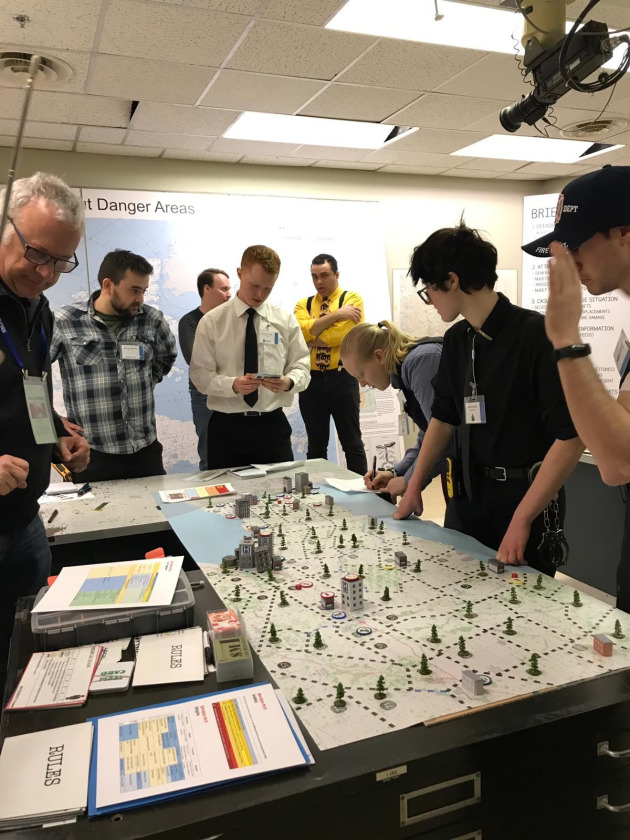
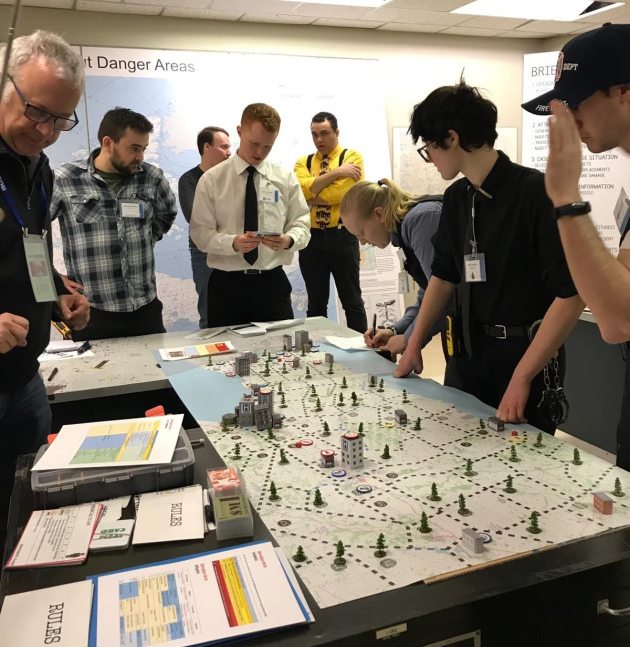
fix issue with mailing list signup form on games page, minor head update, photo crop

diff --git a/games.html b/games.html
@@ -9,8 +9,8 @@
 
     <link rel="stylesheet" href="css/normalize.css">
     <link rel="stylesheet" href="css/omg.css">
-    <link href="//cdn-images.mailchimp.com/embedcode/classic-10_7_dtp.css" rel="stylesheet" type="text/css">
     <link rel="icon" type="image/png" href="/img/favicon.ico">
+    <link href="https://cdn-images.mailchimp.com/embedcode/classic-10_7_dtp.css" rel="stylesheet" type="text/css">
     <link href="https://fonts.googleapis.com/css2?family=Carter+One&display=swap" rel="stylesheet"> 
     <script src="https://kit.fontawesome.com/1fa4e40780.js" crossorigin="anonymous"></script>
     <meta name="description" content="The next upcoming game for Ottawa MegaGames, including social media links and where to purchase tickets. A teaser for any games coming in the future, and information about past games run by Ottawa MegaGames.">
@@ -64,70 +64,37 @@
         </section>
     </section>
     <!-- ======== New games update ENDS here ======== -->
-
-    <!-- ======== Teaser game update STARTS here ======== -->
-    <section class="teaser">
+    
+    <!-- ======== teaser/no upcoming game message update STARTS here ======== -->
+    <!-- these sections are together bc using the mailing list twice on a page causes problems -->
+    <section class="both">
         <div>
-            <h2>Coming Soon</h2>
-            <h3>Game Name</h3>
-        </div>
-
-        <section class="plain">
+            <h2 class="no-upcoming">Sign Up for Updates</h2>
             <div>
-                <p>Coming in the future! Here's a short description for a future game.</p>
-                <p>Sign up for our quarterly mailing list for updates about this and future games:</p>
-                <!-- Begin Mailchimp Signup Form -->
-                <div id="mc_embed_signup">
-                    <form action="https://facebook.us20.list-manage.com/subscribe/post?u=48b287ab8da2c5e0f68b8f40b&amp;id=bd1d73d4ed" method="post" id="mc-embedded-subscribe-form" name="mc-embedded-subscribe-form" class="validate" target="_blank" novalidate>
-                        <div id="mc_embed_signup_scroll">
-                            <div class="mc-field-group">
-                            <label for="mce-EMAIL">Email Address</label>
-                            <input type="email" value="" name="EMAIL" class="required email" id="mce-EMAIL">
-                        </div>  
-                        <div id="mce-responses" class="clear foot">
-                            <div class="response" id="mce-error-response" style="display:none"></div>
-                            <div class="response" id="mce-success-response" style="display:none"></div>
-                        </div>    <!-- real people should not fill this in and expect good things - do not remove this or risk form bot signups-->
-                        <div style="position: absolute; left: -5000px;" aria-hidden="true"><input type="text" name="b_48b287ab8da2c5e0f68b8f40b_bd1d73d4ed" tabindex="-1" value=""></div>
-                            <div class="optionalParent">
-                                <div class="clear foot">
-                                    <input type="submit" value="Subscribe" name="subscribe" id="mc-embedded-subscribe" class="button">
-                                </div>
-                            </div>
-                        </div>
-                    </form>
-                </div>
+                <p class="no-upcoming">Due to Covid, we currently have no upcoming events planned. Be sure to check our <a href="/partners.html">partners page</a> for groups running games online and across North America.</p>
+                <p class="no-upcoming">For updates about future games, sign up to for our mailing list! We'll only email you about once a season.</p>
             </div>
-            <script type='text/javascript' src='//s3.amazonaws.com/downloads.mailchimp.com/js/mc-validate.js'></script><script type='text/javascript'>(function($) {window.fnames = new Array(); window.ftypes = new Array();fnames[0]='EMAIL';ftypes[0]='email';fnames[1]='FNAME';ftypes[1]='text';fnames[2]='LNAME';ftypes[2]='text';}(jQuery));var $mcj = jQuery.noConflict(true);</script>
-            <!--End mc_embed_signup-->
-            <img src="/img/games/teaser-placeholder.jpg" alt="A photo of two men wearing hats and leis in with the colours of the Indian flag. There is a whitboard and an Indian flag in the background. One of the men is looking at a piece of paper, and the other is looking and pointing directly at the camera.">
-
-        </section>
-    </section>
-
-    <!-- ======== Teaser game update ENDS here ======== -->
-    
-    
-    <!-- ======== no upcoming game message update STARTS here ======== -->
-    <section class="no-upcoming">
-        <div>
-            <h2>Sign Up for Updates</h2>
-            <p>Due to Covid, we currently have no upcoming events planned. Be sure to check our <a href="/partners.html">partners page</a> for groups running games online and across North America.</p>
-            <p>For updates about future games, sign up to for our mailing list! We'll only email you about once a season.</p>
-
+            
+            <h2 class="teaser">Coming Soon</h2>
+            <h3 class="teaser">Game Name</h3>
+            <div>
+                <p class="teaser">Coming in the future! Here's a short description for a future game.</p>
+                <p class="teaser">Sign up for our quarterly mailing list for updates about this and future games:</p>
+            </div>
+            
             <div id="mc_embed_signup">
                 <form action="https://facebook.us20.list-manage.com/subscribe/post?u=48b287ab8da2c5e0f68b8f40b&amp;id=bd1d73d4ed" method="post" id="mc-embedded-subscribe-form" name="mc-embedded-subscribe-form" class="validate" target="_blank" novalidate>
                     <div id="mc_embed_signup_scroll">
                         <div class="mc-field-group">
-                        <label for="mce-EMAIL">Email Address</label>
-                        <input type="email" value="" name="EMAIL" class="required email" id="mce-EMAIL">
-                    </div>
-                    <div id="mce-responses" class="clear foot">
-                        <div class="response" id="mce-error-response" style="display:none"></div>
+                            <label for="mce-EMAIL">Email Address</label>
+                            <input type="email" value="" name="EMAIL" class="required email" id="mce-EMAIL">
+                        </div>
+                        <div id="mce-responses" class="clear foot">
+                            <div class="response" id="mce-error-response" style="display:none"></div>
                         <div class="response" id="mce-success-response" style="display:none"></div>
                     </div>    <!-- real people should not fill this in and expect good things - do not remove this or risk form bot signups-->
                     <div style="position: absolute; left: -5000px;" aria-hidden="true"><input type="text" name="b_48b287ab8da2c5e0f68b8f40b_bd1d73d4ed" tabindex="-1" value=""></div>
-                        <div class="optionalParent">
+                    <div class="optionalParent">
                             <div class="clear foot">
                                 <input type="submit" value="Subscribe" name="subscribe" id="mc-embedded-subscribe" class="button">
                             </div>
@@ -135,19 +102,18 @@
                     </div>
                 </form>
             </div>
-            <script type='text/javascript' src='//s3.amazonaws.com/downloads.mailchimp.com/js/mc-validate.js'></script><script type='text/javascript'>(function($) {window.fnames = new Array(); window.ftypes = new Array();fnames[0]='EMAIL';ftypes[0]='email';fnames[1]='FNAME';ftypes[1]='text';fnames[2]='LNAME';ftypes[2]='text';}(jQuery));var $mcj = jQuery.noConflict(true);</script>
+            <script type='text/javascript' src='https://s3.amazonaws.com/downloads.mailchimp.com/js/mc-validate.js'></script><script type='text/javascript'>(function($) {window.fnames = new Array(); window.ftypes = new Array();fnames[0]='EMAIL';ftypes[0]='email';fnames[1]='FNAME';ftypes[1]='text';fnames[2]='LNAME';ftypes[2]='text';}(jQuery));var $mcj = jQuery.noConflict(true);</script>
         </div>
-        <img src="/img/photos/no-upcoming.jpg" alt="A photo of 8 people standing around a map with game pieces on it. There are several pices of paper and cards sitting near the board, two of which read 'Rules'. There is a map of Canada on the back wall with the title 'Danger Areas'.">
-            
-        <script type='text/javascript' src='//s3.amazonaws.com/downloads.mailchimp.com/js/mc-validate.js'></script><script type='text/javascript'>(function($) {window.fnames = new Array(); window.ftypes = new Array();fnames[0]='EMAIL';ftypes[0]='email';fnames[1]='FNAME';ftypes[1]='text';fnames[2]='LNAME';ftypes[2]='text';}(jQuery));var $mcj = jQuery.noConflict(true);</script>
+        <img class="teaser" src="/img/games/teaser-placeholder.jpg" alt="A photo of two men wearing hats and leis in with the colours of the Indian flag. There is a whitboard and an Indian flag in the background. One of the men is looking at a piece of paper, and the other is looking and pointing directly at the camera.">
+        <img class="no-upcoming" src="/img/photos/no-upcoming.jpg" alt="A photo of 8 people standing around a map with game pieces on it. There are several pices of paper and cards sitting near the board, two of which read 'Rules'. There is a map of Canada on the back wall with the title 'Danger Areas'.">
     </section>
-    <!-- ======== no upcoming game message update ends here ======== -->
+    <!-- ======== teaser/no upcoming game message update ends here ======== -->
 
 
     <section>
 
         <h2>Past Games</h2>
-        <section  class="past">
+        <section class="past">
             <section>
                 <img src="/img/games/past games/zombies.jpg" alt="A distressed and grungey Canadian flag with a lunging zombie in front of it. Green text reading 'Apocalypse North' at the bottom.">
                 <h3>Apocalypse North</h3>

diff --git a/css/omg.css b/css/omg.css
@@ -85,6 +85,7 @@ a:hover {
 
 button, #mc_embed_signup #mc-embedded-subscribe {
     height: auto;
+    width: fit-content;
     margin-top: 1rem;
     padding: 1rem 2rem;
     align-self: center;
@@ -271,35 +272,9 @@ footer span a {
     width: 100%;
 }
 
-.no-upcoming {
-    display: flex;
-    justify-content: space-evenly;
-}
-
-.no-upcoming>div {
-    width: 40%;
-}
-
-.no-upcoming p {
-    text-align: justify;
-}
-
-.no-upcoming img {
-    height: 100%;
-    width: 25%;
-}
-
-.games-splash ~ .no-upcoming h2 {
-    text-align: left;
-}
-
 
 /* ------ games ------------- */
 
-
-.games-splash ~ section h2, .home + section h2 {
-    text-align: center;
-}
 
 .upcoming {
     display: flex;
@@ -331,35 +306,47 @@ footer span a {
     margin: 2rem 0;
 }
 
-.teaser p {
-    width: 80%;
-    margin-left: 20%;
+/* !!!!!!!!!!!!!!!!!!!!!!!!!! */
+
+.both {
+    display: flex;
+    justify-content: space-evenly;
 }
 
-.teaser img {
-    width: 30%;
-    height: 100%
+.both img {
+    height: 100%;
+    width: 35%;
 }
 
-.teaser h2 {
-    text-decoration: underline;
+.both > div {
+    width: 40%;
+    display: flex;
+    flex-direction: column;
+}
+
+.both p {
+    text-align: justify;
+}
+
+.both h2 {
+    text-align: left;
     font-size: 2.5rem;
+    text-align: left;
+    margin-top: 3rem;
 }
 
-.teaser h3 {
-    text-align: center;
+h2.teaser {
+    text-decoration: underline;
+}
+
+h3.teaser {
+    text-align: left;
     font-size: 4rem;
     margin-top: 3rem;
-    margin-bottom: 0;
 }
 
-.teaser #mc_embed_signup {
-    margin-left: 20%;
-}
 
-.teaser form div {
-    margin-left: 0;
-}
+/* !!!!!!!!!!!!!!!!!!!!!!!!!! */
 
 .past {
     display: flex;
@@ -367,6 +354,10 @@ footer span a {
     justify-content: space-evenly;
     align-items: baseline;
     padding: 0;
+}
+
+.both + section h2 {
+    text-align: center;
 }
 
 .past section {
@@ -538,14 +529,6 @@ textarea {
     
 }
 
-/******************************************
-/* ADDITIONAL STYLES
-/*******************************************/
-
-.no-upcoming {
-    /* display: none; */
-}
-
 
 /******************************************
 /* PAGE SPLASHES
@@ -666,7 +649,6 @@ textarea {
     display: none;
 }
 
-
 /* teaser game on the games page */
 .teaser {
     display: none;
@@ -674,7 +656,7 @@ textarea {
 
 /* "no games" message */
 .no-upcoming {
-    display: auto;
+    display: inherit;
 }
 
 /* shadows on past games may need to swap colours */

diff --git a/index.html b/index.html
@@ -10,6 +10,7 @@
     <link rel="icon" type="image/png" href="/img/favicon.ico">
     <link rel="preconnect" href="https://fonts.googleapis.com">
     <link rel="preconnect" href="https://fonts.gstatic.com" crossorigin>
+    <link href="//cdn-images.mailchimp.com/embedcode/classic-10_7_dtp.css" rel="stylesheet" type="text/css">
     <link href="https://fonts.googleapis.com/css2?family=Carter+One&display=swap" rel="stylesheet"> 
     <script src="https://kit.fontawesome.com/1fa4e40780.js" crossorigin="anonymous"></script>
     <meta name="description" content="Welcome to Ottawa MegaGames! We are a volunteer-run organization in Ottawa, Ontario, Canada, that runs large-scale, in-person games combining board games, model UN, and live-action roleplay.">
@@ -62,7 +63,7 @@
 
 
     <!-- ======== no upcoming game message update STARTS here ======== -->
-    <section class="no-upcoming">
+    <section class="both">
         <div>
             <h2>Sign Up for Updates</h2>
             <p>Due to Covid, we currently have no upcoming events planned. Be sure to check our <a href="/partners.html">partners page</a> for groups running games online and across North America.</p>
@@ -91,8 +92,6 @@
             <script type='text/javascript' src='//s3.amazonaws.com/downloads.mailchimp.com/js/mc-validate.js'></script><script type='text/javascript'>(function($) {window.fnames = new Array(); window.ftypes = new Array();fnames[0]='EMAIL';ftypes[0]='email';fnames[1]='FNAME';ftypes[1]='text';fnames[2]='LNAME';ftypes[2]='text';}(jQuery));var $mcj = jQuery.noConflict(true);</script>
         </div>
         <img src="/img/photos/no-upcoming.jpg" alt="A photo of 8 people standing around a map with game pieces on it. There are several pices of paper and cards sitting near the board, two of which read 'Rules'. There is a map of Canada on the back wall with the title 'Danger Areas'.">
-            
-        <script type='text/javascript' src='//s3.amazonaws.com/downloads.mailchimp.com/js/mc-validate.js'></script><script type='text/javascript'>(function($) {window.fnames = new Array(); window.ftypes = new Array();fnames[0]='EMAIL';ftypes[0]='email';fnames[1]='FNAME';ftypes[1]='text';fnames[2]='LNAME';ftypes[2]='text';}(jQuery));var $mcj = jQuery.noConflict(true);</script>
     </section>
     <!-- ======== no upcoming game message update ENDS here ======== -->
 

diff --git a/contact.html b/contact.html
@@ -10,8 +10,8 @@
     
     <link rel="stylesheet" href="css/normalize.css">
     <link rel="stylesheet" href="css/omg.css">
-    <link href="//cdn-images.mailchimp.com/embedcode/classic-10_7_dtp.css" rel="stylesheet" type="text/css">
     <link rel="icon" type="image/png" href="/img/favicon.ico">
+    <link href="//cdn-images.mailchimp.com/embedcode/classic-10_7_dtp.css" rel="stylesheet" type="text/css">
     <link href="https://fonts.googleapis.com/css2?family=Carter+One&display=swap" rel="stylesheet"> 
     <script src="https://kit.fontawesome.com/1fa4e40780.js" crossorigin="anonymous"></script>
     <meta name="description" content="Contact form, social media links, email address, and mailing list for Ottawa MegaGames.">
